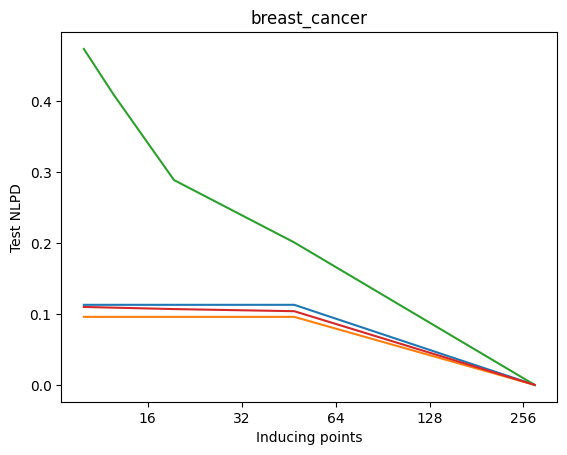
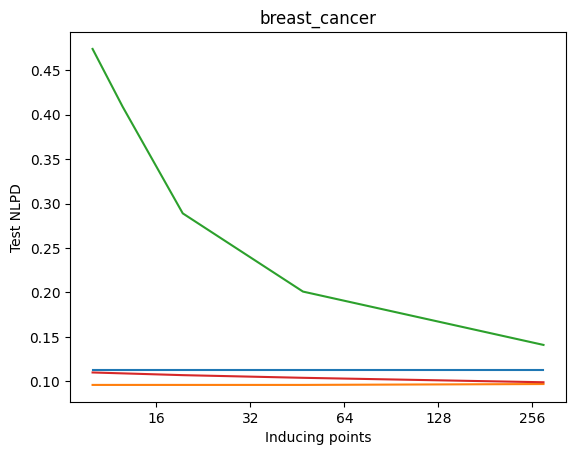
Save UCI figures

diff --git a/bnn-predictive/notebooks/plots/breast_cancer.tex b/bnn-predictive/notebooks/plots/breast_cancer.tex
@@ -19,7 +19,7 @@ xtick={0,50,100,150,200,250,300},
 xticklabels={0,16,32,64,128,256,},
 y grid style={darkgray176},
 ylabel={Test NLPD},
-ymin=-0.0237, ymax=0.4977,
+ymin=0.0771, ymax=0.4929,
 ytick style={color=black}
 ]
 \addplot [semithick, steelblue31119180]
@@ -28,7 +28,7 @@ table {%
 32 0.113
 64 0.113
 128 0.113
-256 0
+256 0.113
 };
 \addplot [semithick, darkorange25512714]
 table {%
@@ -36,7 +36,7 @@ table {%
 32 0.096
 64 0.096
 128 0.096
-256 0
+256 0.097
 };
 \addplot [semithick, forestgreen4416044]
 table {%
@@ -44,7 +44,7 @@ table {%
 32 0.409
 64 0.289
 128 0.201
-256 0
+256 0.141
 };
 \addplot [semithick, crimson2143940]
 table {%
@@ -52,7 +52,7 @@ table {%
 32 0.109
 64 0.107
 128 0.104
-256 0
+256 0.099
 };
 \end{axis}
 
